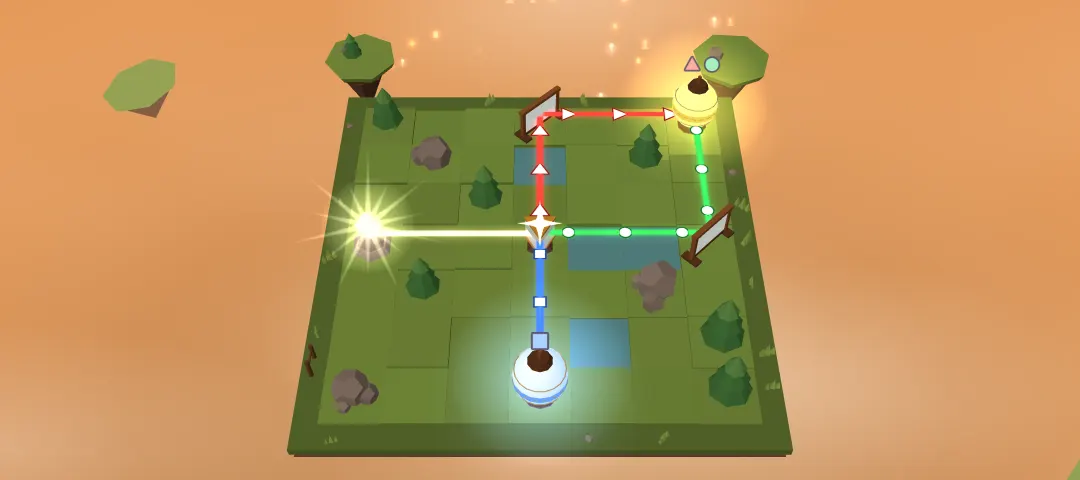
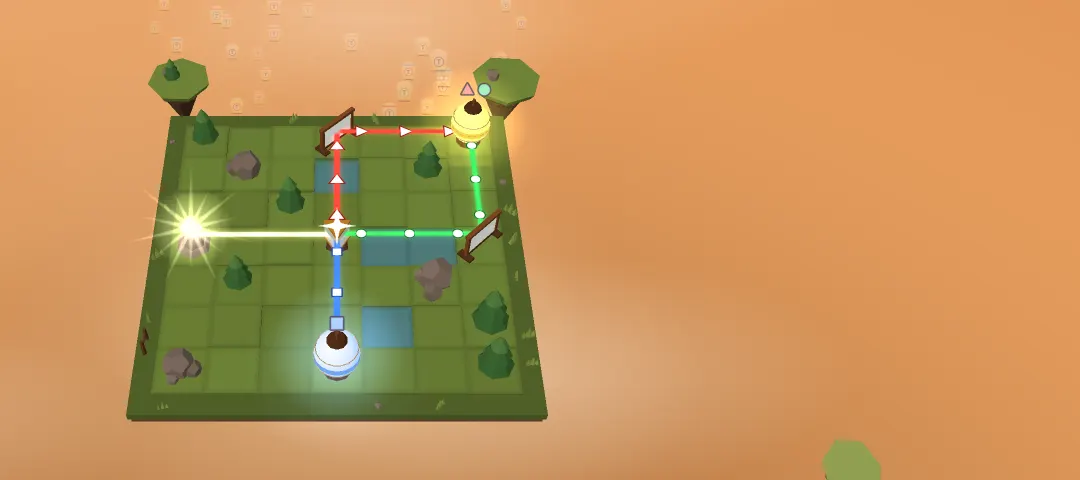
Art: soft tile seams, drawn medal emblems, glowing crowd pools, clean sky
Each tile's top darkens softly toward its edge, so the squares read without drawn lines.
The result card shows a drawn medal beside its name: gold with a lantern for Lamplighter,
silver with a glow for Glow, bronze with a spark for Spark. "Where did others place
mirrors?" lays a soft pool of warm light on each used tile, sized and brightened by use,
instead of tinting tiles flat orange. The sky's noise no longer uses sin() of large
numbers, which phone graphics chips turned into speckle. Feed card heroes re-rendered.

diff --git a/src/client/game/ground.ts b/src/client/game/ground.ts
@@ -4,7 +4,10 @@
  * coloured per biome; nothing here is loaded from a file.
  */
 import {
+  AdditiveBlending,
   BoxGeometry,
+  type BufferGeometry,
+  CircleGeometry,
   Color,
   ConeGeometry,
   CylinderGeometry,
@@ -14,13 +17,13 @@ import {
   InstancedMesh,
   Matrix4,
   Mesh,
+  MeshBasicMaterial,
   MeshStandardMaterial,
   Quaternion,
   Sprite,
   SpriteMaterial,
-  Vector3,
-  type BufferGeometry,
   type Texture,
+  Vector3,
 } from 'three';
 import { ART, HEAT, type BiomeLook } from '../../shared/config';
 import type { Puzzle } from '../../shared/types';
@@ -140,11 +143,24 @@ export function createGround(
   // --- Tiles. The box is painted lighter on top than on its sides, then tinted per tile. -----
   // Tiles meet edge to edge: no grid lines. Each differs a little from its neighbours in height
   // and tone, which is all that marks the squares.
-  const tileBox = new BoxGeometry(1, 0.5, 1).toNonIndexed();
+  // The top is cut three by three and its inner corners pushed out toward the edge, leaving a
+  // narrow band all round that darkens to the edge: a soft seam between neighbours.
+  const tileBox = new BoxGeometry(1, 0.5, 1, 3, 1, 3).toNonIndexed();
   const tileNormals = tileBox.getAttribute('normal');
+  const tilePoints = tileBox.getAttribute('position');
+  const inner = 0.5 - ART.seamWidth;
+  for (let i = 0; i < tilePoints.count; i++) {
+    const x = tilePoints.getX(i);
+    const z = tilePoints.getZ(i);
+    if (Math.abs(x) < 0.4) tilePoints.setX(i, Math.sign(x) * inner);
+    if (Math.abs(z) < 0.4) tilePoints.setZ(i, Math.sign(z) * inner);
+  }
   const tilePaint = new Float32Array(tileNormals.count * 3);
   for (let i = 0; i < tileNormals.count; i++) {
-    const shade = tileNormals.getY(i) > 0.5 ? 1 : 0.78;
+    const atEdge =
+      Math.abs(tilePoints.getX(i)) > 0.49 ||
+      Math.abs(tilePoints.getZ(i)) > 0.49;
+    const shade = tileNormals.getY(i) > 0.5 ? (atEdge ? ART.seam : 1) : 0.78;
     tilePaint[i * 3] = shade;
     tilePaint[i * 3 + 1] = shade;
     tilePaint[i * 3 + 2] = shade;
@@ -183,7 +199,21 @@ export function createGround(
   }
   group.add(tiles);
   // The painted colours, kept so a tint can always be taken off again.
-  const tileColours = Float32Array.from(tiles.instanceColor?.array ?? []);
+  // "Where did others place mirrors?": a soft pool of warm light on each used tile.
+  const poolMaterial = keeper.keep(
+    new MeshBasicMaterial({
+      map: blob,
+      blending: AdditiveBlending,
+      transparent: true,
+      depthWrite: false,
+    })
+  );
+  const poolShape = keeper.keep(new CircleGeometry(0.5, 20));
+  poolShape.rotateX(-Math.PI / 2);
+  const pools = new InstancedMesh(poolShape, poolMaterial, width * height);
+  pools.count = 0;
+  pools.renderOrder = 1;
+  group.add(pools);
   const heat = new Color(HEAT.colour);
 
   // --- The earth rim and the rock underneath, as one painted shape. --------------------------
@@ -513,20 +543,37 @@ export function createGround(
       mistMaterial.opacity = 0.55 - dusk * 0.25;
     },
     tint(counts) {
-      const busiest = counts === null ? 1 : Math.max(1, ...counts);
-      for (let tile = 0; tile < width * height; tile++) {
-        colour.fromArray(tileColours, tile * 3);
-        if (counts !== null && puzzle.terrain[tile] === 'grass') {
+      let shown = 0;
+      if (counts !== null) {
+        const busiest = Math.max(1, ...counts);
+        for (let tile = 0; tile < width * height; tile++) {
           const share = (counts[tile] ?? 0) / busiest;
-          if (share > 0)
+          if (share <= 0 || puzzle.terrain[tile] !== 'grass') continue;
+          const [worldX, worldZ] = tileCentre(
+            tile % width,
+            Math.floor(tile / width),
+            width,
+            height
+          );
+          const size = HEAT.poolMin + (HEAT.poolMax - HEAT.poolMin) * share;
+          position.set(worldX, 0.06, worldZ);
+          matrix.compose(position, turn.identity(), scale.set(size, 1, size));
+          pools.setMatrixAt(shown, matrix);
+          // The light adds to what is there, so a darker colour is a fainter pool.
+          pools.setColorAt(
+            shown,
             colour
-              .lerp(heat, HEAT.mix * share)
-              .multiplyScalar(1 + (HEAT.boost - 1) * share);
-          else colour.multiplyScalar(HEAT.unused);
+              .copy(heat)
+              .multiplyScalar(
+                HEAT.glowMin + (HEAT.glowMax - HEAT.glowMin) * share
+              )
+          );
+          shown++;
         }
-        tiles.setColorAt(tile, colour);
       }
-      if (tiles.instanceColor !== null) tiles.instanceColor.needsUpdate = true;
+      pools.count = shown;
+      pools.instanceMatrix.needsUpdate = true;
+      if (pools.instanceColor !== null) pools.instanceColor.needsUpdate = true;
     },
   };
 }

diff --git a/src/client/game/emblem.ts b/src/client/game/emblem.ts
@@ -1,0 +1,63 @@
+/**
+ * The three medal emblems, drawn in the same single-stroke style as the icons: a round medal on
+ * a short ribbon, gold with a lit lantern for Lamplighter, silver with a glow for Glow, bronze
+ * with a spark for Spark.
+ */
+import { UI } from '../../shared/config';
+import type { Medal } from '../../shared/types';
+
+const NS = 'http://www.w3.org/2000/svg';
+
+const METAL: Record<Medal, string> = {
+  lamplighter: UI.emblemGold,
+  glow: UI.emblemSilver,
+  spark: UI.emblemBronze,
+};
+
+/** What sits on the medal's face, on a 48 x 56 grid with the face centred at (24, 24). */
+const FACE: Record<Medal, string> = {
+  // A paper lantern with a flame.
+  lamplighter:
+    'M17.500 17.200q6.500-4.800 13 0l-1.800 14.600h-9.400zM19.500 33.400h9M24 27.600c1.800-1.500 1.900-3.900 0-6.300-1.900 2.400-1.800 4.800 0 6.300z',
+  // A small light with a ring of glow.
+  glow: 'M24 20.200a3.800 3.800 0 1 0 .01 0zM24 13.200v2.600M24 32.200v2.600M13.200 24h2.600M32.200 24h2.600M16.400 16.400l1.900 1.900M29.700 29.700l1.900 1.900M31.600 16.400l-1.900 1.900M18.300 29.700l-1.900 1.900',
+  // A four-pointed spark.
+  spark:
+    'M24 13.500c.9 5.600 3.900 8.600 9.500 9.500-5.600.9-8.600 3.900-9.500 9.500-.9-5.600-3.900-8.600-9.500-9.500 5.600-.9 8.600-3.900 9.500-9.500z',
+};
+
+function path(d: string, attributes: Record<string, string>): SVGPathElement {
+  const node = document.createElementNS(NS, 'path');
+  node.setAttribute('d', d);
+  for (const [name, value] of Object.entries(attributes))
+    node.setAttribute(name, value);
+  return node;
+}
+
+export function medalEmblem(medal: Medal): SVGSVGElement {
+  const svg = document.createElementNS(NS, 'svg');
+  svg.setAttribute('viewBox', '0 0 48 56');
+  svg.setAttribute('class', 'emblem');
+  svg.setAttribute('aria-hidden', 'true');
+  const metal = METAL[medal];
+  const line = {
+    fill: 'none',
+    stroke: UI.ink,
+    'stroke-width': '1.8',
+    'stroke-linecap': 'round',
+    'stroke-linejoin': 'round',
+  };
+  svg.append(
+    // Two ribbon tails behind the medal.
+    path('M15 38l-4.500 15 7-3.200 3.500 5.200 3-13z', {
+      ...line,
+      fill: metal,
+    }),
+    path('M33 38l4.500 15-7-3.200-3.500 5.200-3-13z', { ...line, fill: metal }),
+    // The medal: a metal rim round a paper face.
+    path('M24 4a20 20 0 1 0 .01 0z', { ...line, fill: metal }),
+    path('M24 9a15 15 0 1 0 .01 0z', { ...line, fill: UI.paper }),
+    path(FACE[medal], line)
+  );
+  return svg;
+}

diff --git a/src/shared/config.ts b/src/shared/config.ts
@@ -521,6 +521,10 @@ export const UI = {
   medalLamplighter: '#a8530f',
   medalGlow: '#7a5a12',
   medalSpark: '#5f566b',
+  /** The drawn emblems: gold for Lamplighter, silver for Glow, bronze for Spark. */
+  emblemGold: '#e0a526',
+  emblemSilver: '#aeb4c2',
+  emblemBronze: '#b9743f',
   radiusPx: 14,
   gapPx: 10,
   /** Smallest tap target, in CSS pixels. */
@@ -536,6 +540,12 @@ export const ART = {
   chequer: 0.22,
   /** Each tile is this much lighter or darker than its neighbours at most, and this much higher or lower (tiles). */
   tileShade: 0.1,
+  /**
+   * Soft seams: each tile's top darkens to this share of its colour at its very edge, over this
+   * much of a tile's width. Enough to see the squares, never a drawn line.
+   */
+  seam: 0.8,
+  seamWidth: 0.1,
   tileLift: 0.09,
   /** Lanterns are drawn this many times their modelled size. */
   lanternScale: 1.45,
@@ -933,10 +943,14 @@ export const KEEP = {
 export const HEAT = {
   /** The warm colour tiles move toward, how far at the busiest tile, and how much brighter. */
   colour: 0xffb347,
-  mix: 0.9,
-  boost: 2.3,
-  /** Tiles nobody used are dimmed to this share, so the used ones stand out at night. */
-  unused: 0.55,
+  /**
+   * Each used tile gets a soft pool of warm light: its width in tiles at the least-used and
+   * the most-used tile, and its brightness at each.
+   */
+  poolMin: 0.9,
+  poolMax: 2.3,
+  glowMin: 0.3,
+  glowMax: 1,
   /** Below this many solves the share at par is not shown; a gentler line is. */
   fewSolves: 5,
   /** How long the camera takes to come down to the island, or go back up, in ms. */

diff --git a/src/client/game/hud.ts b/src/client/game/hud.ts
@@ -14,6 +14,7 @@ import {
   type PlayState,
 } from '../../shared/play';
 import type { Medal } from '../../shared/types';
+import { medalEmblem } from './emblem';
 import { formatTime } from './fit';
 
 export type HudActions = {
@@ -404,7 +405,10 @@ export function createHud(
     },
 
     showResult(outcome) {
-      resultMedal.textContent = MEDAL_NAME[outcome.medal];
+      resultMedal.replaceChildren(
+        medalEmblem(outcome.medal),
+        document.createTextNode(MEDAL_NAME[outcome.medal])
+      );
       resultMedal.dataset['medal'] = outcome.medal;
       resultLine.textContent =
         outcome.pieces <= outcome.par

diff --git a/src/client/game/sky.ts b/src/client/game/sky.ts
@@ -44,6 +44,7 @@ const VERTEX = /* glsl */ `
 `;
 
 const FRAGMENT = /* glsl */ `
+  precision highp float;
   uniform vec3 uTop;
   uniform vec3 uHorizon;
   uniform vec3 uDeep;
@@ -55,8 +56,11 @@ const FRAGMENT = /* glsl */ `
   uniform float uMilky;
   varying vec3 vDirection;
 
+  // No sin() of large numbers here: on phone graphics chips that turns to speckle.
   float hash(vec2 p) {
-    return fract(sin(dot(p, vec2(127.1, 311.7))) * 43758.5453);
+    vec3 q = fract(vec3(p.xyx) * 0.1031);
+    q += dot(q, q.yzx + 33.33);
+    return fract((q.x + q.y) * q.z);
   }
   float soft(vec2 p) {
     vec2 i = floor(p);

diff --git a/src/client/game.css b/src/client/game.css
@@ -1149,3 +1149,17 @@ button.result-time:enabled {
   padding: 4px 8px;
   line-height: 1.2;
 }
+
+/* The drawn medal sits beside its name on the result card. */
+.result-medal {
+  display: flex;
+  align-items: center;
+  justify-content: center;
+  gap: 10px;
+}
+
+.emblem {
+  flex: none;
+  width: 40px;
+  height: 47px;
+}
